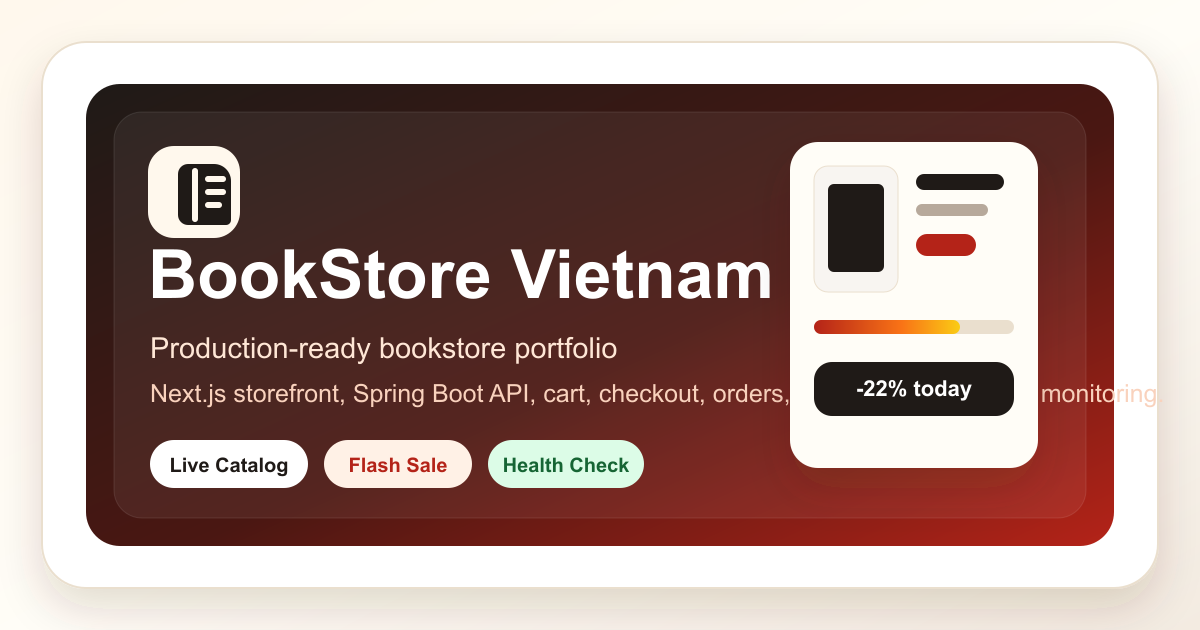
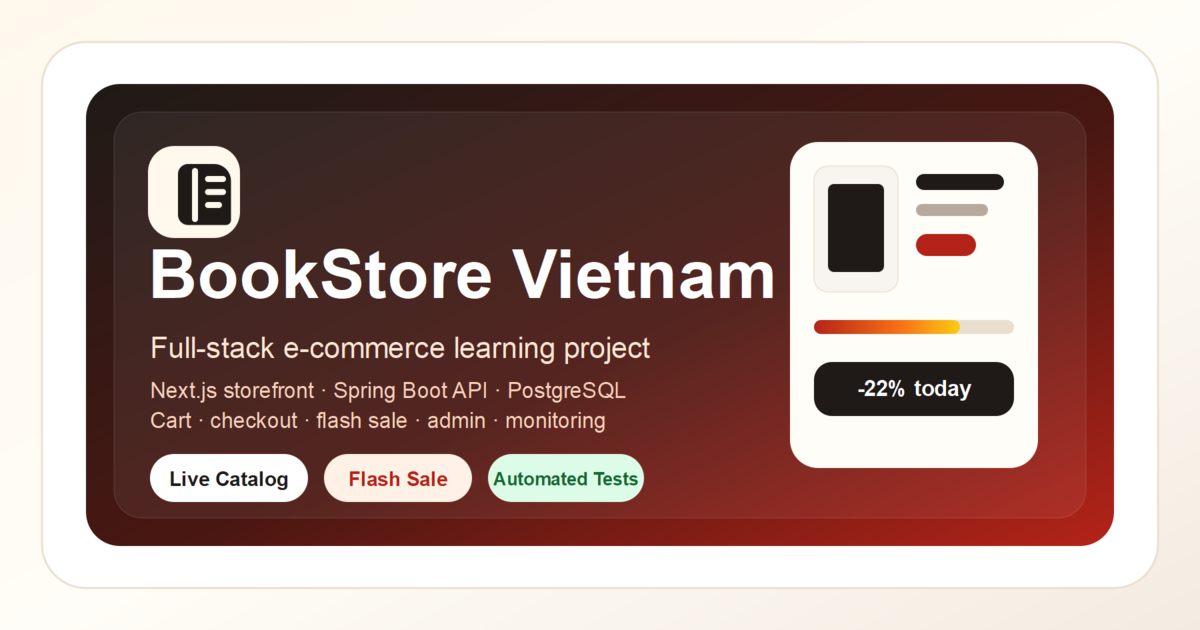
docs(portfolio): highlight live bookstore demo

diff --git a/README.md b/README.md
@@ -1,8 +1,12 @@
 # BookStore Commerce Platform
 
-BookStore is a production-style full-stack e-commerce portfolio project for selling books online. It combines a Spring Boot API, a Next.js storefront, a PostgreSQL/MySQL data layer, an admin surface, flash-sale automation, chatbot support, monitoring, and automated quality gates.
+BookStore is a full-stack e-commerce learning project for selling books online. It combines a Spring Boot API, a Next.js storefront, a PostgreSQL/MySQL data layer, an admin surface, flash-sale automation, chatbot support, monitoring, and automated quality gates.
 
-The project is built to demonstrate real product engineering: clear commerce flows, resilient local production checks, documented Render deployment, and repeatable test evidence.
+The project is built to practice end-to-end product engineering through clear commerce flows, resilient local checks, documented Render deployment, and repeatable test evidence.
+
+[**Open the live storefront →**](https://bookstore-web-dr1k.onrender.com)
+
+> Hosted on Render; the first request after an idle period may need a cold start.
 
 ## Portfolio Preview
 
@@ -177,4 +181,4 @@ Ecommerce_BookStore/
 
 ## Project Status
 
-The codebase is production-verified on GitHub Actions and Render. The latest recovery deploy is live on the existing Render backend and frontend services, with health checks reporting the storefront, API, and database as available.
+This learning project is deployed on the existing Render backend and frontend services. The **May 2, 2026** recovery evidence above recorded the storefront, API, and database as available; use the [live frontend health endpoint](https://bookstore-web-dr1k.onrender.com/api/health) for the current state because Render dependencies can sleep or degrade independently.